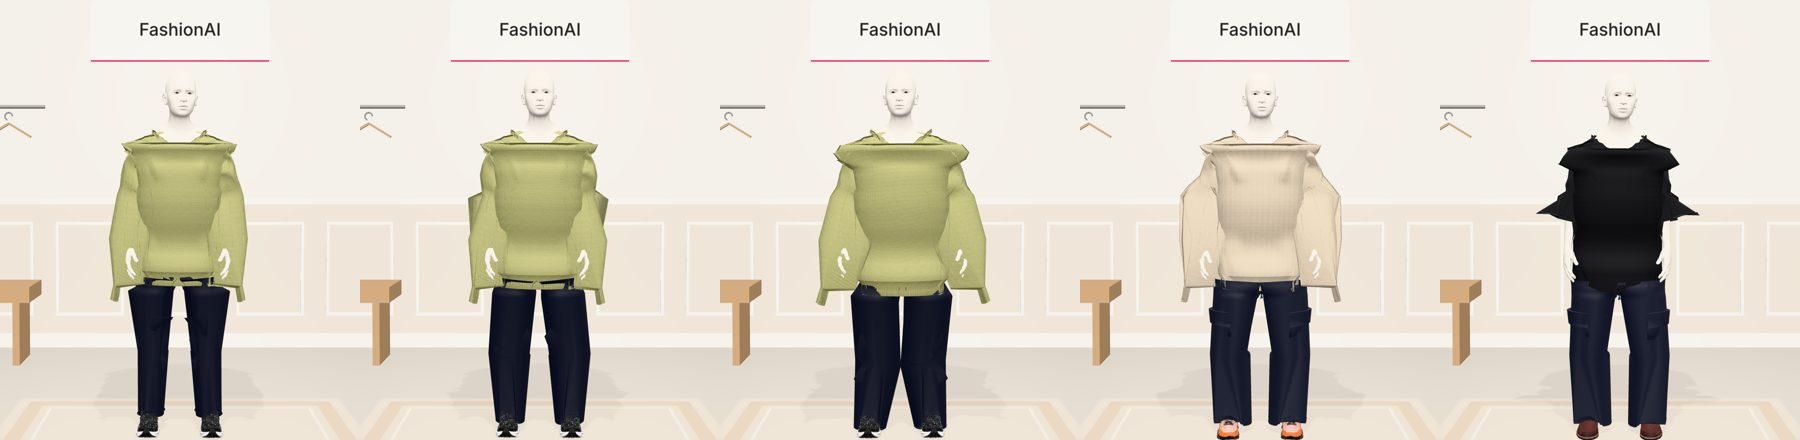
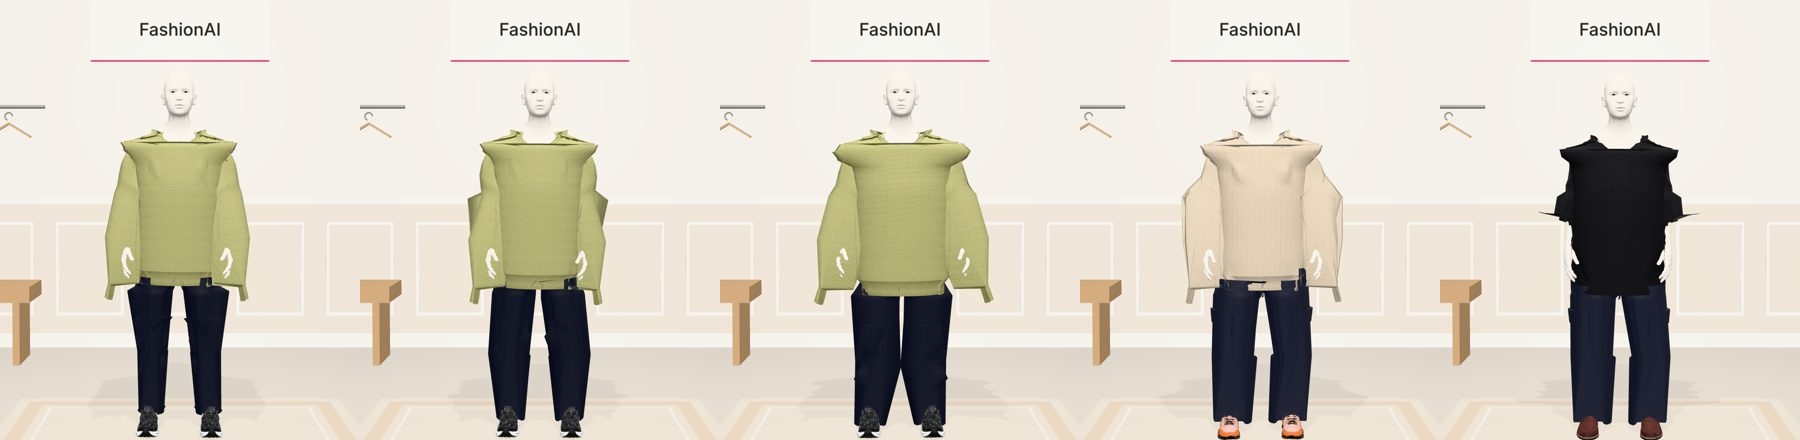
fix(provador): peça em escala real não estica em profundidade por faixa
Com medidaReal, alignGarment pula o inflate (feito para a Meshy rasa): a peça do motor
Blender já tem a profundidade dos perímetros e o esticamento estufava o tronco em faixas.
O moletom careca passa a vestir nos três tamanhos e as peças ficam mais rentes (longe
0,15 m em vez de 0,21–0,25). A manga caída com aceite de furos afrouxado foi conferida na
tela e recusada: evidência e estado atualizados.

Claude-Session: https://claude.ai/code/session_01Ro1Vbq1VQcDAjFEjZPmVEV

diff --git a/lib/avatar3d/human/glb-garment/align.ts b/lib/avatar3d/human/glb-garment/align.ts
@@ -180,6 +180,9 @@ export function alignGarment(src: Float32Array, f: BodyFrame, cls: GarmentClass,
   // `sleeveAngle`: giro máximo da manga; a peça da Meshy de braços abertos (manifesto) traz a manga na horizontal
   if (cls !== "lower") { alignLimb(pos, part, 1, shL, f.joint("LeftHand"), sleeveAngle, longOpen); alignLimb(pos, part, -1, shR, f.joint("RightHand"), sleeveAngle, longOpen); }
   if (cls !== "upper") { alignLimb(pos, part, 2, hipL, f.joint("LeftFoot")); alignLimb(pos, part, -2, hipR, f.joint("RightFoot")); }
+  // escala real: a peça já tem a profundidade de verdade (o motor Blender a constrói pelos perímetros); esticar por faixa
+  // de altura, feito para a Meshy rasa, estufaria o tronco em faixas. Só a colisão (wrap.ts) a tira de dentro da pele.
+  if (realScale) return { pos, part, scale: s };
   inflate(pos, part, 0, f, cls === "lower" ? [1, 3] : [1], clearance);
   if (cls !== "upper") { inflate(pos, part, 2, f, [3], clearance, (x) => x > 0); inflate(pos, part, -2, f, [3], clearance, (x) => x < 0); }
   // manga: a Meshy também a faz rasa e nem sempre na profundidade do braço; centra no braço e dá a espessura dele

diff --git a/lib/avatar3d/human/glb-garment/glb-garment.test.ts b/lib/avatar3d/human/glb-garment/glb-garment.test.ts
@@ -96,6 +96,10 @@ describe("glb-garment: peça estática vestida no avatar", () => {
     expect(real.scale).toBe(1);
     const width = (p: Float32Array) => { let lo = Infinity, hi = -Infinity; for (let i = 0; i < p.length; i += 3) { lo = Math.min(lo, p[i]); hi = Math.max(hi, p[i]); } return hi - lo; };
     expect(width(real.pos)).toBeCloseTo(width(src.position), 1);   // a envergadura fica a da peça (o giro da manga só a reduz)
+    // a profundidade também é a da peça: a camisa rasa de teste não é esticada por faixa (o tronco não estufa)
+    const depth = (p: Float32Array) => { let lo = Infinity, hi = -Infinity; for (let i = 2; i < p.length; i += 3) { lo = Math.min(lo, p[i]); hi = Math.max(hi, p[i]); } return hi - lo; };
+    const grown = (al: { pos: Float32Array; scale: number }) => depth(al.pos) / (al.scale * depth(src.position));
+    expect(grown(real)).toBeLessThan(grown(fitted));
   });
 
   it("tamanho: cada número acima do corpo deixa a peça mais larga (mesma folga do molde)", () => {

diff --git a/services/garment_blender/README.md b/services/garment_blender/README.md
@@ -44,14 +44,18 @@ Cada tamanho gera, em `saida/<tamanho>/`: o `modelo.glb` (metros, Y para cima, f
 
 ## Estado no provador (24/11/2026, corpo padrão, manga gerada na horizontal)
 
+Com `medidaReal`, o provador usa escala 1 e não estica a peça em profundidade por faixa (o passo feito para a Meshy
+rasa estufava o tronco em faixas); só a colisão a tira de dentro da pele. Medido offline (`meshy-real.test.ts`):
+
 | Peça | P / 36 | M / 40 | GG / 46 |
 |---|---|---|---|
 | Calça cargo, calça joelho duplo | veste | veste | veste |
-| Suéter (Stockton) | veste | veste | veste |
-| Moletom careca (Script) | veste | veste | recusado (ESPINHO, longe 0,25 m) |
-| Camiseta (sacai) | veste | recusado (FURADA 3,6 %) | veste |
+| Moletom careca (Script) | veste | veste | veste |
+| Suéter (Stockton) | veste | veste | furos 3,3 % (limite 3 %) |
+| Camiseta (sacai) | veste | furos 3,3 % | furos 3,2 % |
 | Moletom com capuz | recusado: o capuz é furado pela cabeça (5–15 %) e estica | | |
 
-As peças de cima vestem, mas o giro da manga feito pelo provador ainda deixa o ombro quadrado e a manga larga; a
-manga caída feita no Blender (`--angulo 80`) fica certa na prévia, mas é recusada (furos na axila). Evidências em
-`docs/provador/garment-blender/2026-11-24/`.
+No laboratório (corpo de referência), as cinco capturas de cima vestiram. O que ainda está errado: o giro da manga
+feito pelo provador deixa a ponta do ombro em bico e a manga larga. A manga caída feita no Blender (`--angulo 80`)
+fica certa na prévia, mas no provador fura na axila (5–7 %) e, com o aceite afrouxado, a tela mostrou a peça
+deformada: o aceite não foi afrouxado. Evidências em `docs/provador/garment-blender/2026-11-24/`.

diff --git a/docs/provador/garment-blender/2026-11-24/README.md b/docs/provador/garment-blender/2026-11-24/README.md
@@ -16,10 +16,13 @@ produto quando havia) e detalhes de construção.
 
 - `00-pecas-geradas-frente.jpg` e `<peça>-frente.jpg` / `<peça>-tres-quartos.jpg`: prévias em Cycles com a manga caída
   (`--angulo 80`).
-- `01-provador-folha.jpg` e `provador-*.jpg`: as peças vestidas no laboratório do provador (corpo padrão), em escala
-  real, nos tamanhos indicados no nome. O `.glb` do provador sai com a manga na horizontal: com ela caída, o provador
-  recusa as peças de cima (furos na axila).
+- `01-provador-folha.jpg` e `provador-*.jpg`: as peças vestidas no laboratório do provador (corpo de referência), em
+  escala real e sem o estiramento em profundidade da Meshy, nos tamanhos indicados no nome. O `.glb` do provador sai
+  com a manga na horizontal.
+- `02-provador-manga-caida-recusada-na-tela.jpg`: a manga caída feita no Blender com o aceite de furos afrouxado para
+  8 %: passa no número, mas a tela mostra o tronco estufado e a camiseta serrilhada — por isso o aceite não foi
+  afrouxado.
 
-O que ainda está errado: nas peças de cima o giro da manga do provador deixa o ombro quadrado e a manga larga (a
-camiseta fica com a manga em aba); os moletons com capuz são recusados (o capuz é furado pela cabeça); o bordado e as
+O que ainda está errado: nas peças de cima o giro da manga do provador deixa a ponta do ombro em bico e a manga larga
+(a camiseta fica com a manga em aba); os moletons com capuz são recusados (o capuz é furado pela cabeça); o bordado e as
 etiquetas não são modelados.
